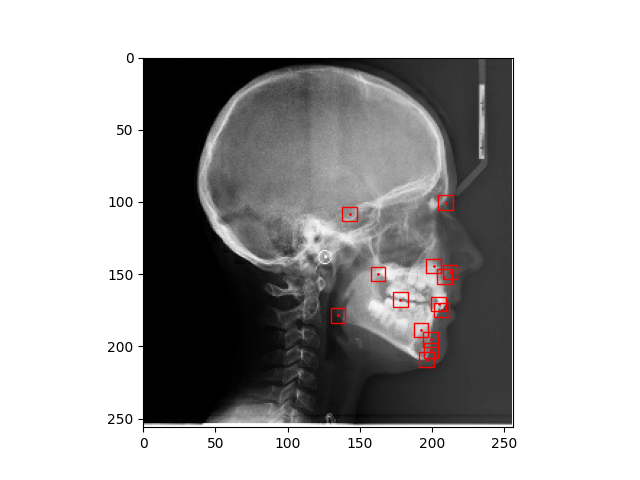
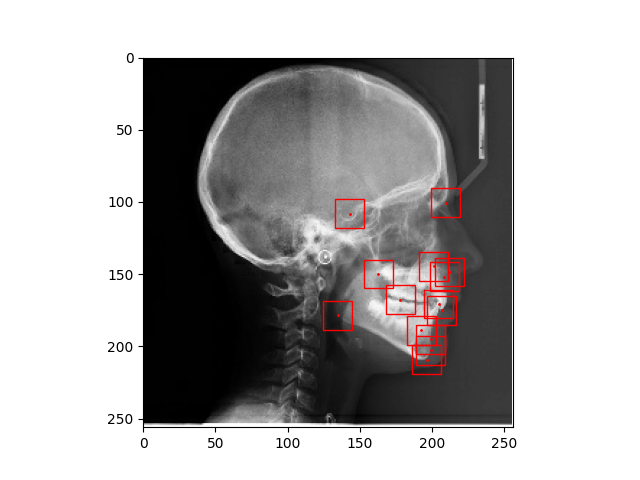
added bbox size

diff --git a/NN/main.py b/NN/main.py
@@ -557,7 +557,7 @@ print(f"Plot saved as {os.getcwd()}'/inverse_deformation_example.png'")
 fixed_labels = fixed_dataset.as_numpy_iterator().next()[1][0]
 
 
-def plot_with_landmarks_and_ROI(image, landmarks):
+def plot_with_landmarks_and_ROI(image, landmarks, bbox_size = 20):
     # Create a figure and axis for plotting
     fig, ax = plt.subplots()
     ax.imshow(image, cmap="gray")
@@ -567,7 +567,7 @@ def plot_with_landmarks_and_ROI(image, landmarks):
         ax.plot(x, y, 'ro', markersize=1) 
 
         # Create a bounding box around the landmark
-        bounding_box = Rectangle((x - 5, y - 5), 10, 10, linewidth=1, edgecolor='r', facecolor='none')
+        bounding_box = Rectangle((x - bbox_size/2, y - bbox_size/2), bbox_size, bbox_size, linewidth=1, edgecolor='r', facecolor='none')
         ax.add_patch(bounding_box)
 
     # Set axis limits to ensure landmarks and bounding boxes are visible
